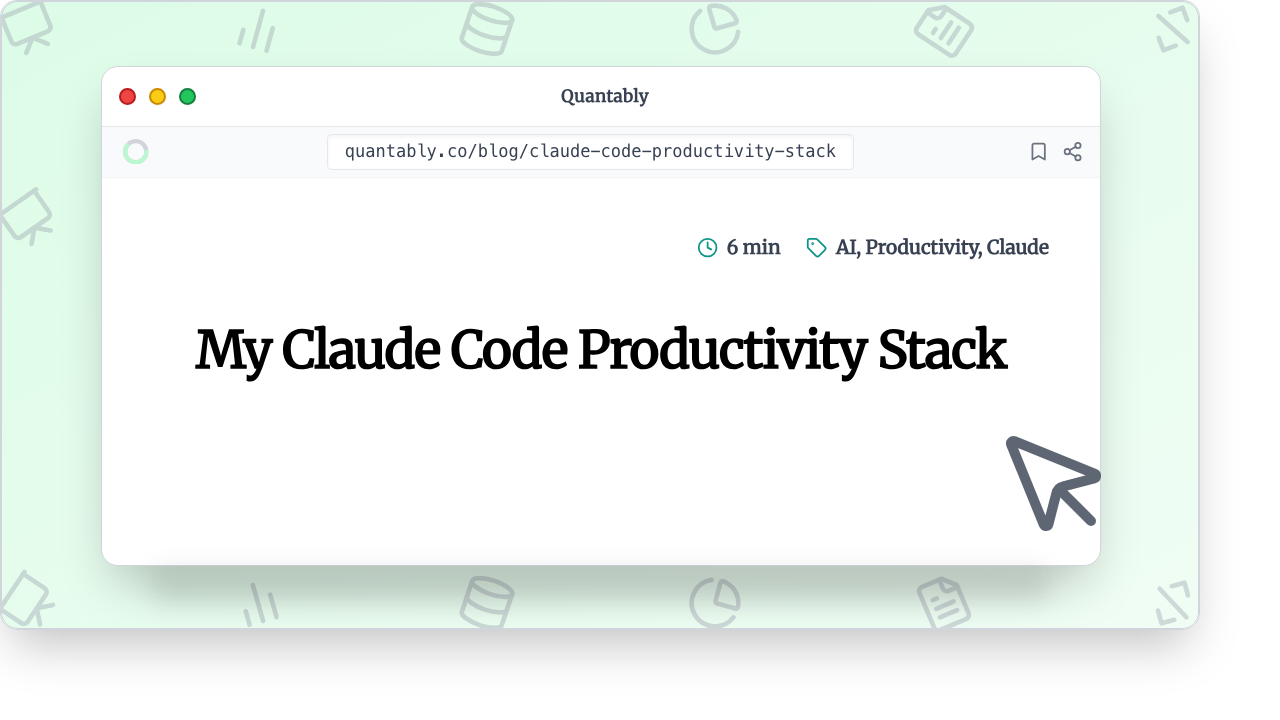
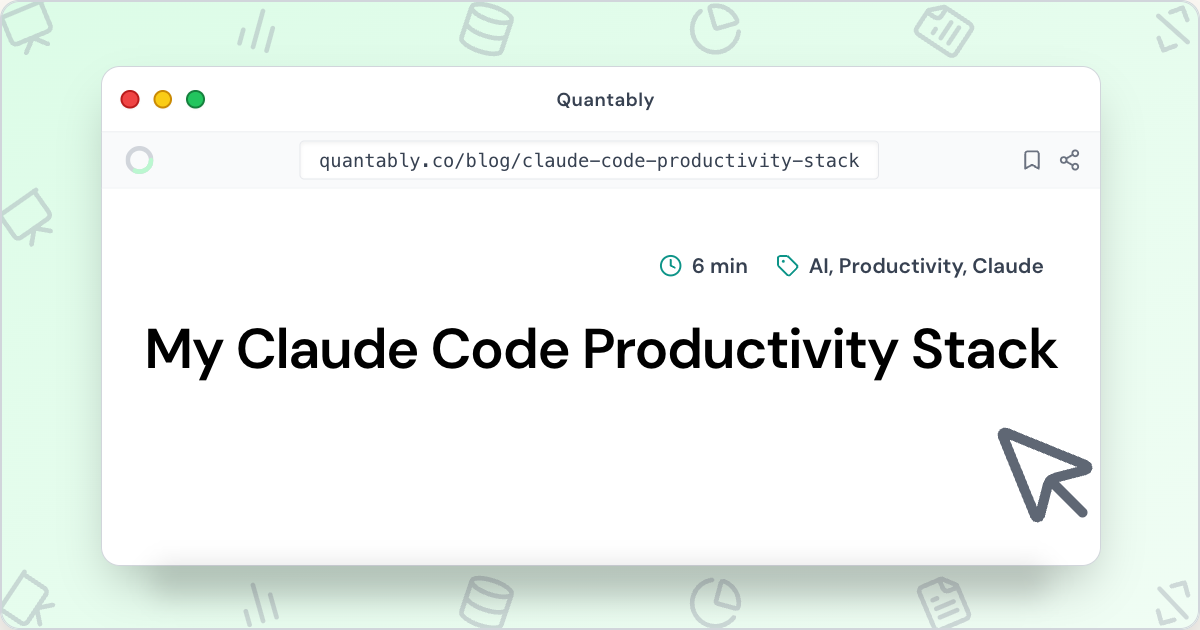
Updates

Changed region(s): [[0.0, 0.0, 1.0, 1.0], [0.0, 0.0, 0.0617, 0.0905]]

diff --git a/using-typescript/index.html b/using-typescript/index.html
@@ -10,7 +10,7 @@
 
         gtag('config', 'G-HZD1YS9Q96', {"anonymize_ip":true,"cookie_expires":0,"send_page_view":false});
       }
-      </script><link rel="alternate" type="application/rss+xml" title="Peter Wooldridge | Blog" href="/rss.xml"/><link rel="sitemap" type="application/xml" href="/sitemap-index.xml"/><link rel="icon" href="/favicon-32x32.png?v=62ea4474aa19ad881f79da19acad1cb6" type="image/png"/><link rel="manifest" href="/manifest.webmanifest" crossorigin="anonymous"/><link rel="apple-touch-icon" sizes="48x48" href="/icons/icon-48x48.png?v=62ea4474aa19ad881f79da19acad1cb6"/><link rel="apple-touch-icon" sizes="72x72" href="/icons/icon-72x72.png?v=62ea4474aa19ad881f79da19acad1cb6"/><link rel="apple-touch-icon" sizes="96x96" href="/icons/icon-96x96.png?v=62ea4474aa19ad881f79da19acad1cb6"/><link rel="apple-touch-icon" sizes="144x144" href="/icons/icon-144x144.png?v=62ea4474aa19ad881f79da19acad1cb6"/><link rel="apple-touch-icon" sizes="192x192" href="/icons/icon-192x192.png?v=62ea4474aa19ad881f79da19acad1cb6"/><link rel="apple-touch-icon" sizes="256x256" href="/icons/icon-256x256.png?v=62ea4474aa19ad881f79da19acad1cb6"/><link rel="apple-touch-icon" sizes="384x384" href="/icons/icon-384x384.png?v=62ea4474aa19ad881f79da19acad1cb6"/><link rel="apple-touch-icon" sizes="512x512" href="/icons/icon-512x512.png?v=62ea4474aa19ad881f79da19acad1cb6"/><link rel="preconnect" href="https://fonts.googleapis.com"/><link rel="preconnect" href="https://fonts.gstatic.com" crossorigin="anonymous"/><link rel="stylesheet" href="https://fonts.googleapis.com/css2?family=Playfair+Display:ital,wght@0,400;0,700;1,400&amp;family=DM+Sans:wght@300;400;500;600&amp;family=Lora:ital,wght@0,400;0,500;1,400;1,500&amp;display=swap"/><title data-gatsby-head="true">Using TypeScript | Quantably</title></head><body><div id="___gatsby"><div style="outline:none" tabindex="-1" id="gatsby-focus-wrapper"><div><nav class="site-nav"><a class="nav-name" href="/">Quantably</a><div class="nav-right"><a href="#services">Services</a><a href="#case-studies">Case Studies</a><a href="#about">About</a><a class="" href="/blog/">Blog</a><a class="" href="/media/">Media</a><a href="https://cal.com/quantably/30min" target="_blank" rel="noopener noreferrer" class="nav-cta">Book a Call</a></div><button class="mobile-nav-toggle" aria-label="Toggle menu" aria-expanded="false"><svg width="24" height="24" fill="none" stroke="currentColor" viewBox="0 0 24 24"><path stroke-linecap="round" stroke-linejoin="round" stroke-width="2" d="M4 6h16M4 12h16M4 18h16"></path></svg></button><div class="mobile-nav "><a href="#services">Services</a><a href="#case-studies">Case Studies</a><a href="#about">About</a><a href="/blog/">Blog</a><a href="/media/">Media</a><a href="https://cal.com/quantably/30min" target="_blank" rel="noopener noreferrer" class="nav-cta">Book a Call</a></div></nav><main><h1>Gatsby supports TypeScript by default!</h1><p>This means that you can create and write <code>.ts/.tsx</code> files for your pages, components, and <code>gatsby-*</code> configuration files (for example <code>gatsby-config.ts</code>).</p><p>For type checking you&#x27;ll want to install <em>typescript</em> via npm and run <em>tsc --init</em> to create a <em>tsconfig</em> file.</p><p>You&#x27;re currently on the page &quot;<!-- -->/*<!-- -->&quot; which was built on<!-- --> <!-- -->2026-04-04 09:03 am UTC<!-- -->.</p><p>To learn more, head over to our<!-- --> <a href="https://www.gatsbyjs.com/docs/how-to/custom-configuration/typescript/">documentation about TypeScript</a>.</p><a href="/">Go back to the homepage</a></main><footer class="site-footer"><span>© <!-- -->2026<!-- --> Peter Wooldridge</span><span>Amsterdam, Netherlands</span></footer></div></div><div id="gatsby-announcer" style="position:absolute;top:0;width:1px;height:1px;padding:0;overflow:hidden;clip:rect(0, 0, 0, 0);white-space:nowrap;border:0" aria-live="assertive" aria-atomic="true"></div></div><script id="gatsby-script-loader">/*<![CDATA[*/window.pagePath="/using-typescript/";/*]]>*/</script><!-- slice-start id="_gatsby-scripts-1" -->
+      </script><link rel="alternate" type="application/rss+xml" title="Peter Wooldridge | Blog" href="/rss.xml"/><link rel="sitemap" type="application/xml" href="/sitemap-index.xml"/><link rel="icon" href="/favicon-32x32.png?v=62ea4474aa19ad881f79da19acad1cb6" type="image/png"/><link rel="manifest" href="/manifest.webmanifest" crossorigin="anonymous"/><link rel="apple-touch-icon" sizes="48x48" href="/icons/icon-48x48.png?v=62ea4474aa19ad881f79da19acad1cb6"/><link rel="apple-touch-icon" sizes="72x72" href="/icons/icon-72x72.png?v=62ea4474aa19ad881f79da19acad1cb6"/><link rel="apple-touch-icon" sizes="96x96" href="/icons/icon-96x96.png?v=62ea4474aa19ad881f79da19acad1cb6"/><link rel="apple-touch-icon" sizes="144x144" href="/icons/icon-144x144.png?v=62ea4474aa19ad881f79da19acad1cb6"/><link rel="apple-touch-icon" sizes="192x192" href="/icons/icon-192x192.png?v=62ea4474aa19ad881f79da19acad1cb6"/><link rel="apple-touch-icon" sizes="256x256" href="/icons/icon-256x256.png?v=62ea4474aa19ad881f79da19acad1cb6"/><link rel="apple-touch-icon" sizes="384x384" href="/icons/icon-384x384.png?v=62ea4474aa19ad881f79da19acad1cb6"/><link rel="apple-touch-icon" sizes="512x512" href="/icons/icon-512x512.png?v=62ea4474aa19ad881f79da19acad1cb6"/><link rel="preconnect" href="https://fonts.googleapis.com"/><link rel="preconnect" href="https://fonts.gstatic.com" crossorigin="anonymous"/><link rel="stylesheet" href="https://fonts.googleapis.com/css2?family=Playfair+Display:ital,wght@0,400;0,700;1,400&amp;family=DM+Sans:wght@300;400;500;600&amp;family=Lora:ital,wght@0,400;0,500;1,400;1,500&amp;display=swap"/><title data-gatsby-head="true">Using TypeScript | Quantably</title></head><body><div id="___gatsby"><div style="outline:none" tabindex="-1" id="gatsby-focus-wrapper"><div><nav class="site-nav"><a class="nav-name" href="/">Quantably</a><div class="nav-right"><a href="#services">Services</a><a href="#case-studies">Case Studies</a><a href="#about">About</a><a class="" href="/blog/">Blog</a><a class="" href="/media/">Media</a><a href="https://cal.com/quantably/30min" target="_blank" rel="noopener noreferrer" class="nav-cta">Book a Call</a></div><button class="mobile-nav-toggle" aria-label="Toggle menu" aria-expanded="false"><svg width="24" height="24" fill="none" stroke="currentColor" viewBox="0 0 24 24"><path stroke-linecap="round" stroke-linejoin="round" stroke-width="2" d="M4 6h16M4 12h16M4 18h16"></path></svg></button><div class="mobile-nav "><a href="#services">Services</a><a href="#case-studies">Case Studies</a><a href="#about">About</a><a href="/blog/">Blog</a><a href="/media/">Media</a><a href="https://cal.com/quantably/30min" target="_blank" rel="noopener noreferrer" class="nav-cta">Book a Call</a></div></nav><main><h1>Gatsby supports TypeScript by default!</h1><p>This means that you can create and write <code>.ts/.tsx</code> files for your pages, components, and <code>gatsby-*</code> configuration files (for example <code>gatsby-config.ts</code>).</p><p>For type checking you&#x27;ll want to install <em>typescript</em> via npm and run <em>tsc --init</em> to create a <em>tsconfig</em> file.</p><p>You&#x27;re currently on the page &quot;<!-- -->/*<!-- -->&quot; which was built on<!-- --> <!-- -->2026-04-05 06:44 am UTC<!-- -->.</p><p>To learn more, head over to our<!-- --> <a href="https://www.gatsbyjs.com/docs/how-to/custom-configuration/typescript/">documentation about TypeScript</a>.</p><a href="/">Go back to the homepage</a></main><footer class="site-footer"><span>© <!-- -->2026<!-- --> Peter Wooldridge</span><span>Amsterdam, Netherlands</span></footer></div></div><div id="gatsby-announcer" style="position:absolute;top:0;width:1px;height:1px;padding:0;overflow:hidden;clip:rect(0, 0, 0, 0);white-space:nowrap;border:0" aria-live="assertive" aria-atomic="true"></div></div><script id="gatsby-script-loader">/*<![CDATA[*/window.pagePath="/using-typescript/";/*]]>*/</script><!-- slice-start id="_gatsby-scripts-1" -->
           <script
             id="gatsby-chunk-mapping"
           >
